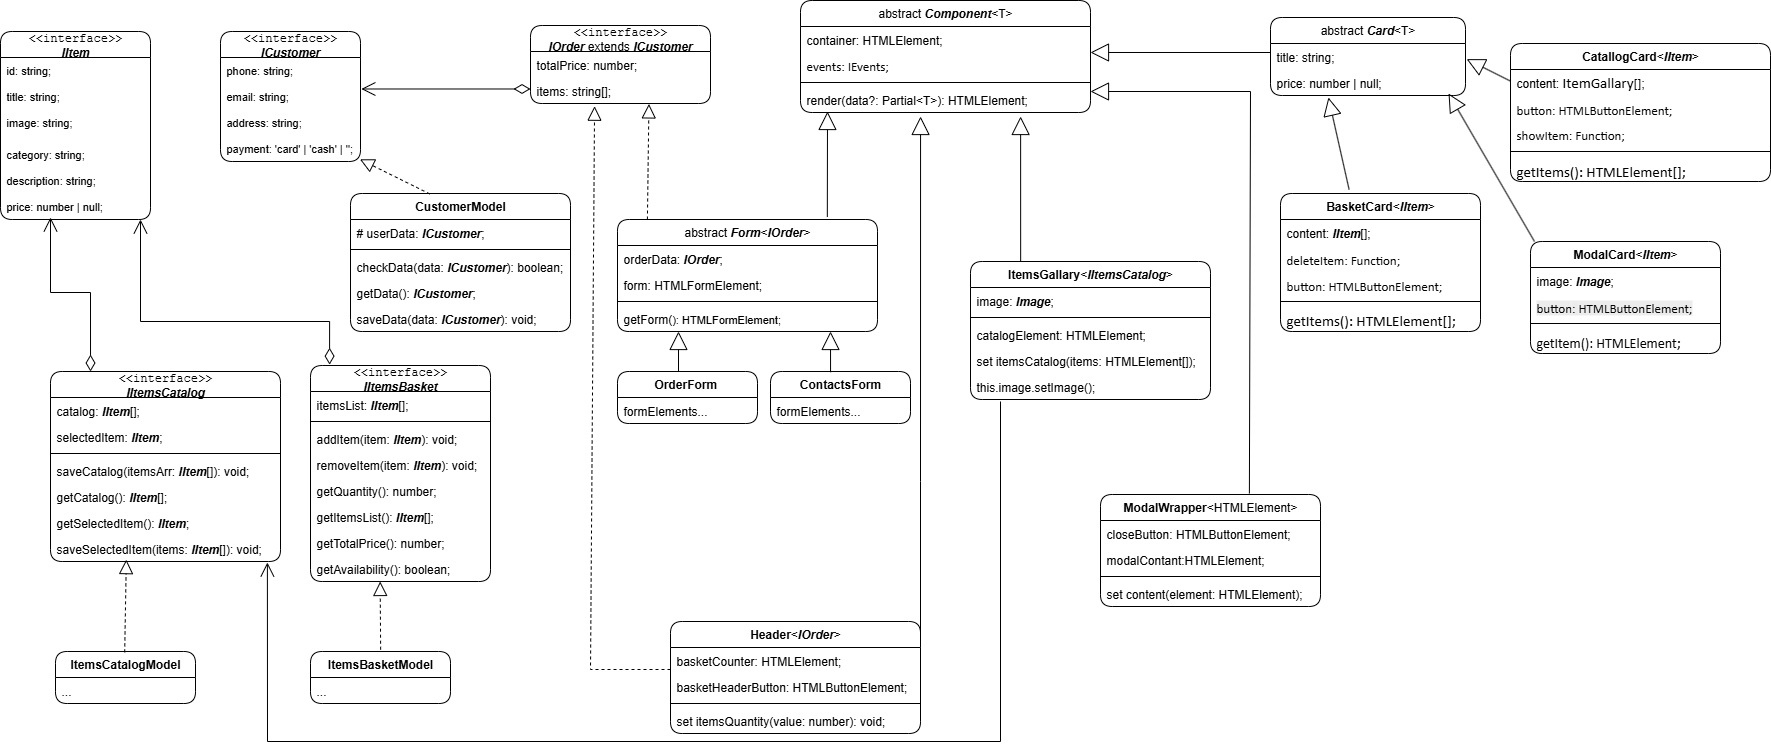
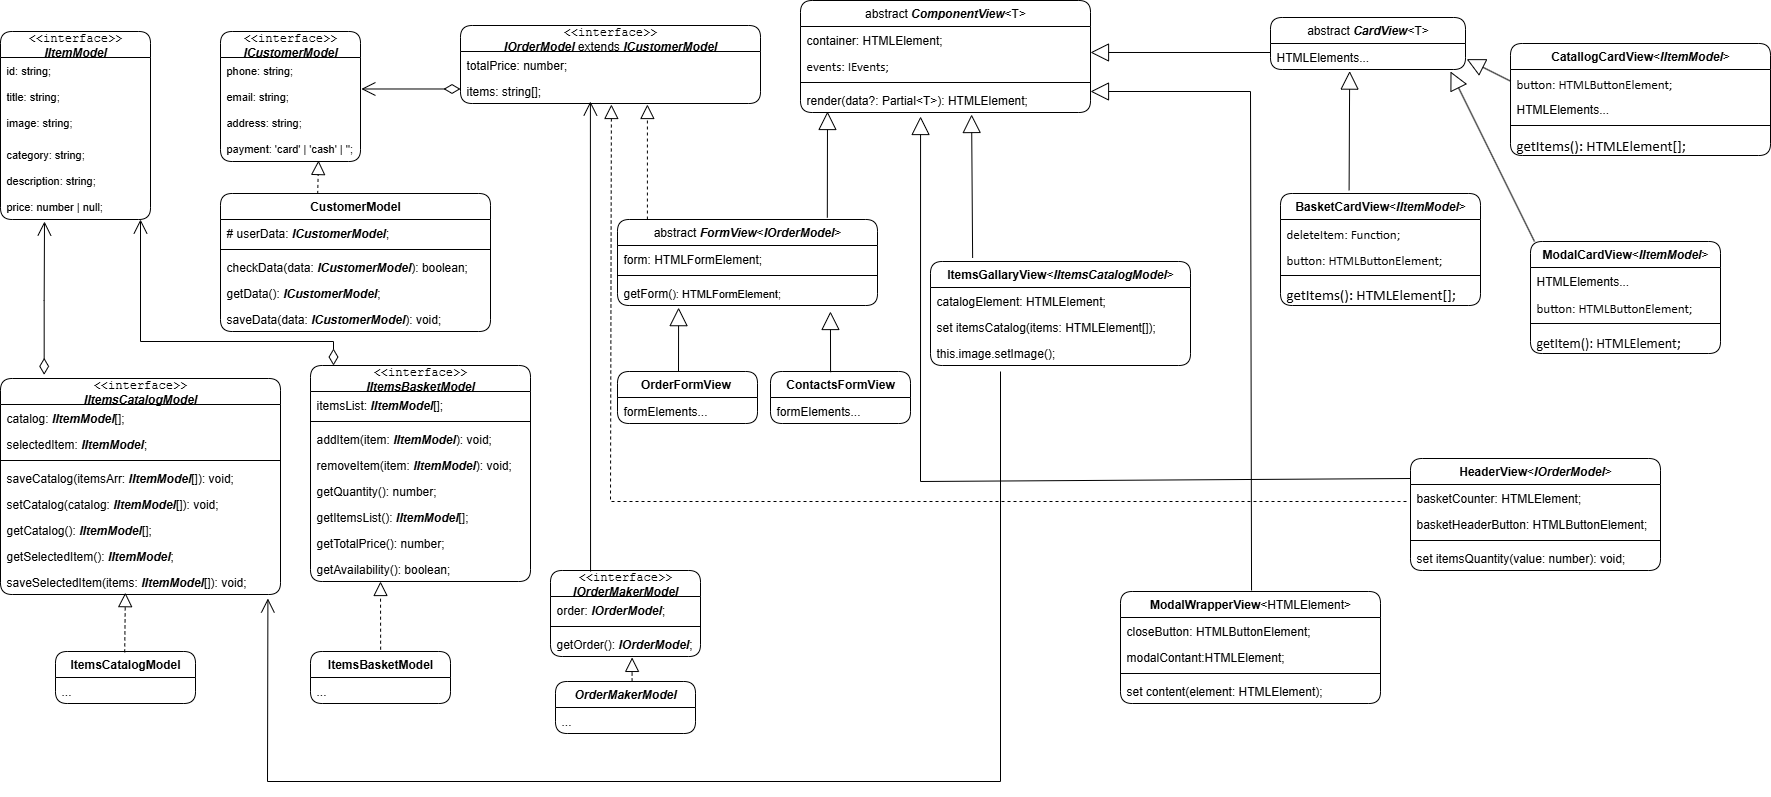
Вторая документация

diff --git a/src/types/index.ts b/src/types/index.ts
@@ -1,4 +1,4 @@
-interface IItem {
+interface IItemModel {
 	id: string;
 	title: string;
 	image: string;
@@ -7,46 +7,51 @@ interface IItem {
 	price: number | null;
 }
 
-interface ICustomer {
+interface ICustomerModel {
 	phone: string;
 	email: string;
 	address: string;
 	payment: 'card' | 'cash' | '';
 }
 
-interface IItemsCatalog {
-	catalog: IItem[];
-	selectedItem: IItem;
-	getCatalog(): IItem[];
-	saveSelectedItem(catalog: IItem[]): void;
-	getSelectedItem(): IItem;
+interface IItemsCatalogModel {
+	catalog: IItemModel[];
+	selectedItem: IItemModel;
+	getCatalog(): IItemModel[];
+	saveSelectedItem(catalog: IItemModel[]): void;
+	getSelectedItem(): IItemModel;
 }
 
-interface IItemsBasket {
+interface IItemsBasketModel {
 	itemsList: ItemBasket[];
-	addItem(item: IItem): void;
-	removeItem(item: IItem): void;
+	addItem(item: IItemModel): void;
+	removeItem(item: IItemModel): void;
 	getQuantity(): number;
 	getItemsList(): ItemBasket[];
 	getTotalPrice(): number;
 	getAvailability(): boolean;
 }
 
-interface IOrder extends ICustomer {
+interface IOrderModel extends ICustomerModel {
 	totalPrice: number;
 	items: string[];
 }
 
-type ItemsQuantity = ReturnType<IItemsBasket['getQuantity']>;
+interface IOrderMakerModel {
+	order: IOrderModel;
+	getOrder(): IOrderModel;
+}
+
+type ItemsQuantity = ReturnType<IItemsBasketModel['getQuantity']>;
 
 type ItemGallery = Pick<
-	IItem,
+	IItemModel,
 	'id' | 'image' | 'category' | 'description' | 'price'
 >;
 type ItemGalleryArray = ItemGallery[];
 
-type ItemBasket = Pick<IItem, 'id' | 'title' | 'price'>;
+type ItemBasket = Pick<IItemModel, 'id' | 'title' | 'price'>;
 
-type CustomerDataPaymentAddress = Pick<ICustomer, 'payment' | 'address'>;
+type CustomerDataPaymentAddress = Pick<ICustomerModel, 'payment' | 'address'>;
 
-type CustomerDataContacts = Pick<ICustomer, 'phone' | 'email'>;
+type CustomerDataContacts = Pick<ICustomerModel, 'phone' | 'email'>;

diff --git a/README.md b/README.md
@@ -50,7 +50,7 @@ yarn build
 Товар
 
 ```
-interface IItem {
+interface IItemModel {
     id: string;
     title: string;
     image: string;
@@ -63,7 +63,7 @@ interface IItem {
 Пользователь
 
 ```
-interface ICustomer {
+interface ICustomerModel {
     phone: string;
     email: string;
     address: string;
@@ -73,25 +73,25 @@ interface ICustomer {
 Интерфейс для модели данных массива товаров
 
 ```
-interface IItemsCatalog {
-    catalog: IItem[];
-    selectedItem: IItem;
-    saveCatalog(itemsArr: IItem[]): void;
-    getCatalog(): IItem[];
-    saveSelectedItem(catalog: IItem[]): void;
-    getSelectedItem(): IItem;
+interface IItemsCatalogModel {
+    catalog: IItemModel[];
+    selectedItem: IItemModel;
+    saveCatalog(itemsArr: IItemModel[]): void;
+    getCatalog(): IItemModel[];
+    saveSelectedItem(catalog: IItemModel[]): void;
+    getSelectedItem(): IItemModel;
 }
 ```
 
 Интерфейс для модели данных корзины товаров
 
 ```
-interface IItemsBasket {
-    itemsList: ItemBasket[];
-    addItem(item: IItem): void;
-    removeItem(item: IItem): void;
+interface IItemsBasketModel {
+    itemsList: ItemBasketModel[];
+    addItem(item: IItemModel): void;
+    removeItem(item: IItemModel): void;
     getQuantity(): number;
-    getItemsList(): ItemBasket[];
+    getItemsList(): ItemBasketModel[];
     getTotalPrice(): number;
     getAvailability(): boolean;
 }
@@ -100,7 +100,7 @@ interface IItemsBasket {
 Данные заказа
 
 ```
-interface IOrder extends ICustomer {
+interface IOrderModel extends ICustomerModel {
     totalPrice: number;
     items: string[];
 }
@@ -109,32 +109,32 @@ interface IOrder extends ICustomer {
 Данные товара используемые в шапке при выводе количества товаров
 
 ```
-type ItemsQuantity = ReturnType<IItemsBasket['getQuantity']>;
+type ItemsQuantity = ReturnType<IItemsBasketModel['getQuantity']>;
 ```
 
 Данные товара, используемые в галерее при выводе
 
 ```
-type ItemGallery = Pick<IItem, 'id' | 'image' | 'category' | 'description' | 'price'>;
-type ItemGalleryArray = ItemGallary[];
+type ItemGallery = Pick<IItemModel, 'id' | 'image' | 'category' | 'description' | 'price'>;
+type ItemGalleryArray = ItemGalleryModel[];
 ```
 
 Данные товара, используемые в корзине
 
 ```
-type ItemBasket = Pick<IItem, 'id' | 'title' | 'price'>;
+type ItemBasket = Pick<IItemModel, 'id' | 'title' | 'price'>;
 ```
 
 Данные пользователя, используемые в форме для выбора оплаты и указания адреса
 
 ```
-type CustomerDataPaymentAddress = Pick<ICustomer, 'payment' | 'address';
+type CustomerDataPaymentAddress = Pick<ICustomerModel, 'payment' | 'address';
 ```
 
 Данные пользователя, используемые в форме для выбора оплаты и указания адреса
 
 ```
-type CustomerDataContacts = Pick<ICustomer, 'phone' | 'email'>;
+type CustomerDataContacts = Pick<ICustomerModel, 'phone' | 'email'>;
 ```
 
 ## Архитектура приложения
@@ -166,37 +166,37 @@ type CustomerDataContacts = Pick<ICustomer, 'phone' | 'email'>;
 
 ### Слой данных
 
-#### Класс ItemsCatalog
+#### Класс ItemsCatalogModel
 
 Класс отвечает за хранение и логику работы с данными товаров.\
 Конструктор класса принимает инстант брокера событий и массив товаров\
 В полях класса хранятся следующие данные:
 
-- \_catalog: IItem[] - массив объектов товаров
-- \_selectedItem: IItem - выбранный товар, отображаемый в модальном окне
+- \_catalog: IItemModel[] - массив объектов товаров
+- \_selectedItem: IItemModel - выбранный товар, отображаемый в модальном окне
 - events: IEvents - экземпляр класса `EventEmitter` для инициации событий при изменении данных.
 
 Так же класс предоставляет набор методов для взаимодействия с этими данными.
 
-- getCatalog(): IItem[] - возвращает массив товаров.
-- saveSelectedItem(item: IItem): void - сохраняет выбранный товар для вывода в модальном окне.
-- getSelectedItem(): IItem - возвращает выбранный товар для вывода в модальном окне.
+- getCatalog(): IItemModel[] - возвращает массив товаров.
+- saveSelectedItem(item: IItemModel): void - сохраняет выбранный товар для вывода в модальном окне.
+- getSelectedItem(): IItemModel - возвращает выбранный товар для вывода в модальном окне.
 
-#### Класс ItemsBasket
+#### Класс ItemsBasketModel
 
 Класс отвечает за хранение и логику работы с выбранными товарами.\
 Конструктор класса принимает инстант брокера событий\
 В полях класса хранятся следующие данные:
 
-- itemsList: ItemBasket[] - массив выбранных товаров.
+- itemsList: ItemBasketModel[] - массив выбранных товаров.
 - events: IEvents - экземпляр класса `EventEmitter` для инициации событий при изменении данных.
 
 Так же класс предоставляет набор методов для взаимодействия с этими данными.
 
-- addItem(item: IItem): void - добавляет выбранный товар в корзину.
-- removeItem(item: IItem): void - удаляет выбранный товар из корзины.
+- addItem(item: IItemModel): void - добавляет выбранный товар в корзину.
+- removeItem(item: IItemModel): void - удаляет выбранный товар из корзины.
 - getQuantity(): number - позволяет получить количество выбранных товаров.
-- getItemsList(): IItem[] - возвращает список выбранных товаров.
+- getItemsList(): IItemModel[] - возвращает список выбранных товаров.
 - getTotalPrice(): number - позволяет получить совокупную сумму цен.
 - getAvailability(): boolean - позволяет проверить доступность товара.
 
@@ -204,7 +204,7 @@ type CustomerDataContacts = Pick<ICustomer, 'phone' | 'email'>;
 
 Все классы представления отвечают за отображение внутри контейнера (DOM-элемент) передаваемых в них данных.
 
-#### Абстрактный класс Component
+#### Абстрактный класс ComponentView
 
 Позволяет наследовать всем компонентам отображения поле контейнера, который будет выбран для размещения разметки, а также метод для обновления данных объекта разметки наследников.\
 
@@ -215,7 +215,7 @@ type CustomerDataContacts = Pick<ICustomer, 'phone' | 'email'>;
   Методы:
 - render(data?: Partial<T>): HTMLElement - позволяет обновлять данные через сеттеры.
 
-#### Абстрактный класс Card
+#### Абстрактный класс CardView
 
 Класс расширяет класс Component и позволяет наследовать поля описания товара и цену, так как эта информация отображается во всех карточках. \
 
@@ -227,7 +227,7 @@ type CustomerDataContacts = Pick<ICustomer, 'phone' | 'email'>;
 
 - сеттеры и геттеры для получения и установки значений полей.
 
-#### Класс BasketCard
+#### Класс BasketCardView
 
 Расширяет класс Card. Предназначен для реализации списка товаров в корзине.
 Поля класса:
@@ -239,7 +239,7 @@ type CustomerDataContacts = Pick<ICustomer, 'phone' | 'email'>;
   Методы класса:
 - getItems(): HTMLElement[] - будет возвращать массив объектов с разметкой.
 
-#### Класс CatalogCard
+#### Класс CatalogCardView
 
 Расширяет класс Card. Предназначен для вывода списка товаров в галерею.
 Поля класса:
